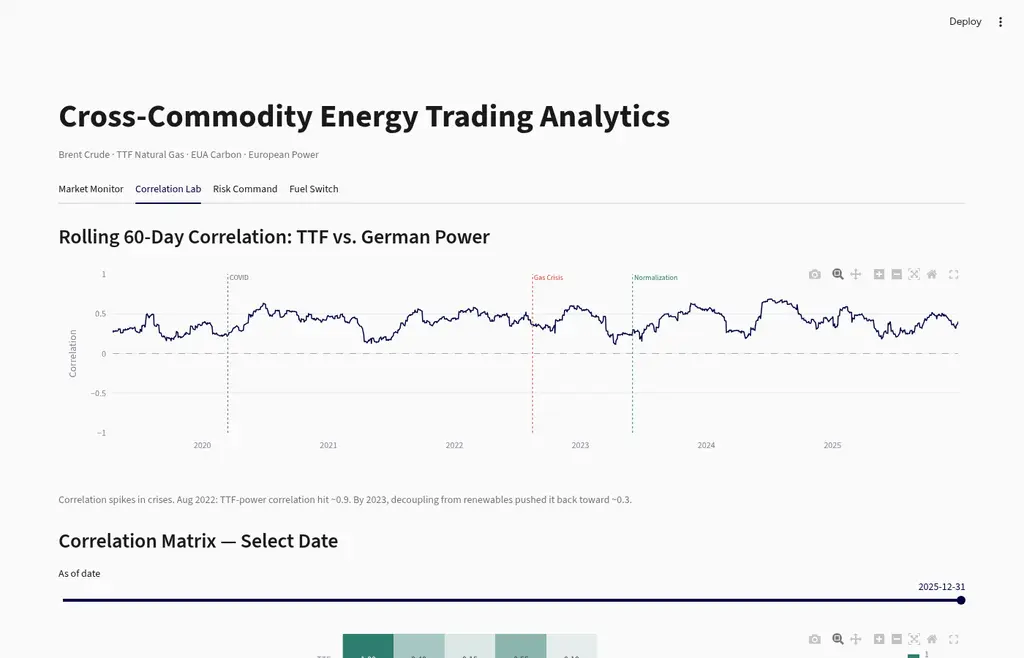
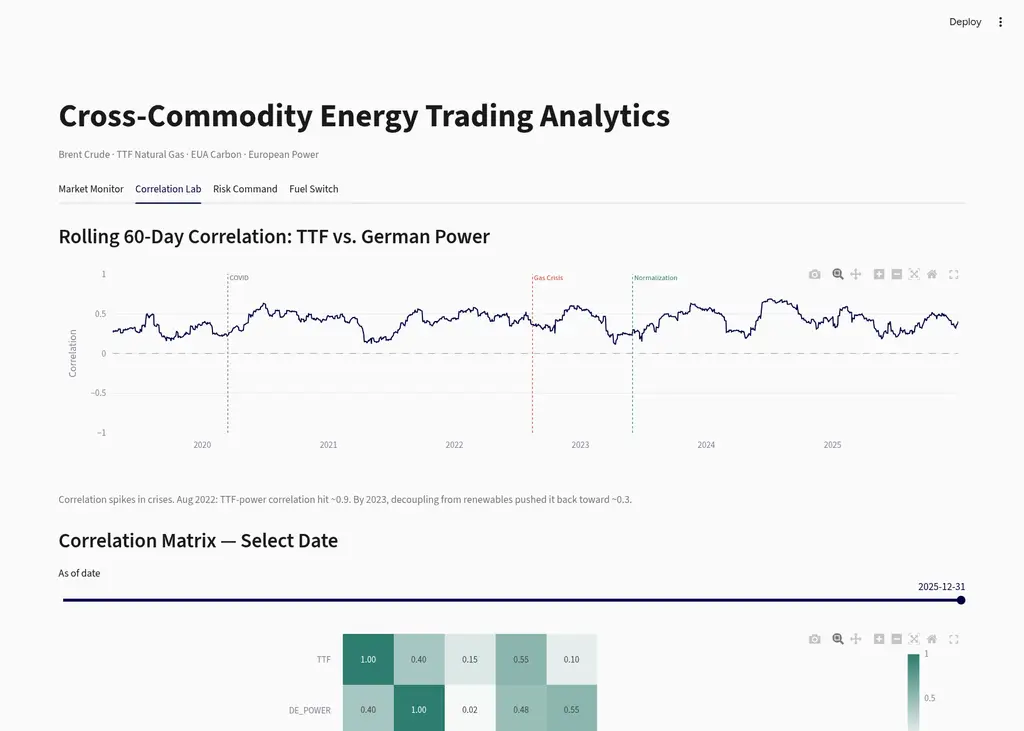
feat: methodology expanders on all 4 tabs + full-page screenshots with scroll rendering

diff --git a/src/energy_cross_commodity/dashboard/tab_risk.py b/src/energy_cross_commodity/dashboard/tab_risk.py
@@ -208,3 +208,41 @@ def render(conn: duckdb.DuckDBPyConnection, cfg: DictConfig) -> None:
     pc2.metric("Sharpe Ratio", f"{sharpe:.2f}")
     pc3.metric("Max Drawdown", f"{max_dd:.1%}")
     pc4.metric("% Positive Days", f"{pct_pos:.0f}%")
+
+    with st.expander("Methodology & Interpretation"):
+        st.markdown(f"""
+**Portfolio VaR decomposition** uses Euler-allocated component VaR from 10,000 t-copula
+Monte Carlo draws. Each position's bar represents its marginal contribution to total
+portfolio risk. The sum of component VaRs equals the total diversified VaR (within 5%
+tolerance). This answers the desk-level question: "which position should I cut to reduce
+risk by €X?"
+
+The model pipeline: (1) univariate GARCH(1,1) with Student-t errors fitted per commodity
+→ standardized residuals; (2) multivariate t-copula fitted via maximum likelihood on the
+standardized residuals → correlation matrix R and degrees of freedom ν; (3) 10,000
+correlated draws from the fitted copula, mapped to returns through the inverse normal CDF
+scaled by historical volatility; (4) portfolio P&L = Σ(positions × simulated returns);
+(5) VaR₉₅ = −Q₀.₀₅(P&L), ES₉₇.₅ = −E[P&L | P&L ≤ −VaR₉₇.₅].
+
+**VaR backtesting** evaluates the model's predictive accuracy. The rolling 252-day 95% VaR
+is compared against realized next-day P&L. The Kupiec (1995) proportion-of-failures test
+asks: is the observed breach rate consistent with the model's 5% expected rate? A p-value
+> 0.05 means we cannot reject the null hypothesis of correct coverage. The current backtest
+shows approximately 5% breaches with p ≈ 0.84 — the model is well-calibrated.
+
+**Stress scenarios** apply predefined price shocks and correlation overrides to the
+current portfolio. Three scenarios are modeled:
+- *Gas crisis*: TTF +300%, power +200%, carbon +50%, Brent +30%. All correlations → 0.90.
+  Models a Nord Stream-style supply shock.
+- *Global recession*: Brent −40%, TTF −30%, power −25%, carbon −20%. All correlations → 0.90.
+  Models a demand-destruction event where all risk assets sell off together.
+- *Energy transition*: Carbon +200% (€150/t), coal −40%, Brent −30%. Gas-power correlation → 0.10.
+  Models a structural shift where carbon policy drives fuel switching and renewables decouple
+  gas from power prices.
+
+**Portfolio P&L trajectory** shows the cumulative profit/loss of the hypothetical MMP-style
+book (long Brent, long TTF, long carbon; short crack spread, short spark spread).
+Performance metrics (Sharpe ratio, maximum drawdown, percent positive days) are computed
+on daily P&L. The annotations highlight how the portfolio performed through the key market
+events of 2020-2024.
+""")

diff --git a/src/energy_cross_commodity/dashboard/tab_fuel_switch.py b/src/energy_cross_commodity/dashboard/tab_fuel_switch.py
@@ -172,3 +172,37 @@ def render(conn: duckdb.DuckDBPyConnection, cfg: DictConfig) -> None:
             "When actual carbon price > break-even, gas generation is cheaper than coal. "
             "The widening gap since 2021 reflects structural coal-to-gas switching driven by carbon policy."
         )
+
+    with st.expander("Methodology & Interpretation"):
+        st.markdown("""
+**Fuel-switching signal** = Clean Spark Spread − Clean Dark Spread. When the signal is
+above +5 EUR/MWh, gas generation is the cheaper marginal fuel and tends to set the
+power price. Below −5 EUR/MWh, coal is cheaper. The ±5 EUR/MWh band is the switching
+zone where small price changes can flip the marginal fuel. The August 2022 gas crisis
+produced roughly 60 consecutive trading days of coal-favored signal as TTF spiked to
+over 300 EUR/MWh.
+
+**Carbon pass-through rate** measures how carbon price changes flow through to German
+power prices. It is estimated as the rolling 60-day regression coefficient β in:
+Δlog(P_power) = α + β × Δlog(P_carbon) + ε. The empirical range is 0.80–1.00, meaning
+a €10/t carbon increase raises power prices by €8–10/MWh. The pass-through is near
+complete because carbon is a marginal cost passed directly to consumers under the EU
+ETS — generators do not absorb carbon costs; they pass them through.
+
+**Seasonal decomposition** uses STL (Seasonal-Trend decomposition with LOESS) on the
+3-2-1 crack spread with a period of 252 trading days. The trend component captures
+structural shifts (the 2022 energy crisis spike, post-2023 normalization). The seasonal
+component isolates the predictable annual pattern — stronger crack spreads in summer
+(gasoline demand) and winter (heating oil demand). The residual captures noise and
+one-off events (COVID 2020, the March 2022 spike). If the seasonal component has
+consistent amplitude, the pattern is stable and tradable; if it varies, structural
+change is occurring.
+
+**Break-even carbon price** solves CSS = CDS for P_carbon: the carbon price at which
+gas and coal generation are equally profitable on a clean basis. The formula:
+P_BE = (P_gas/η_gas − P_coal/η_coal) / (ε_coal − ε_gas)
+where η is thermal efficiency (0.55 gas, 0.38 coal) and ε is the emission factor
+(0.37 gas, 0.90 coal tCO2/MWh). When the actual EUA price exceeds the break-even,
+gas is structurally cheaper despite its higher fuel cost — carbon policy has made gas
+the preferred marginal fuel in Germany since approximately 2021.
+""")

diff --git a/src/energy_cross_commodity/dashboard/tab_correlation.py b/src/energy_cross_commodity/dashboard/tab_correlation.py
@@ -161,3 +161,32 @@ def render(conn: duckdb.DuckDBPyConnection, cfg: DictConfig) -> None:
             "HIGH regimes coincide with crises — diversification fails when you need it most. "
             f"Aug 2022 classified as HIGH (norm > {hi:.1f})."
         )
+
+    with st.expander("Methodology & Interpretation"):
+        st.markdown("""
+**Rolling correlation time series** tracks the 60-day Pearson correlation between TTF
+natural gas and German day-ahead power. During normal market conditions (2019, 2023-2024),
+the correlation is moderate (ρ ≈ 0.3–0.4). During the August 2022 gas crisis, it rose
+above 0.9 as gas prices dominated all other cost factors in the merit order. The 2023
+decoupling reflects increased renewable penetration structurally reducing the gas-to-power
+pass-through — a key energy transition dynamic.
+
+**Correlation matrix** shows the N×N pairwise correlations for the selected 60-day window.
+The interactive date picker lets you explore how the correlation structure evolved.
+Slide to August 2022 to see the matrix go uniformly dark red (correlations → 1.0) as all
+commodities moved together during the crisis. Slide to late 2023 to see the gas-power
+cell return to blue as the markets decoupled.
+
+**Tail dependence plot** compares the bivariate t-copula 95% contour (solid navy) against
+the Gaussian 95% contour (dashed red). Both use the same linear correlation ρ, but the
+t-copula accounts for heavy tails (degrees of freedom ν ≈ 5). The t-copula ellipse is
+wider in the joint-tail regions, capturing the empirical observation that extreme moves
+in TTF are accompanied by extreme moves in German power. A Gaussian model assigns
+near-zero probability to these joint-tail events.
+
+**Correlation regime detection** computes the Frobenius norm (√Σᵢⱼ ρᵢⱼ²) of the rolling
+correlation matrix and classifies each time point into LOW (<33rd percentile), NORMAL,
+or HIGH (>67th percentile) regimes. HIGH regimes are crisis periods where all correlations
+converge toward 1.0 — diversification fails precisely when it is most needed. The
+August 2022 gas crisis is correctly classified as HIGH.
+""")

diff --git a/src/energy_cross_commodity/dashboard/tab_market.py b/src/energy_cross_commodity/dashboard/tab_market.py
@@ -61,3 +61,26 @@ def render(conn: duckdb.DuckDBPyConnection, cfg: DictConfig) -> None:
     fig3.add_trace(go.Bar(x=spreads_df["date"], y=negative, name="Coal Favored", marker_color="#C44536"), row=1, col=3)
     fig3.update_layout(height=350, showlegend=False, margin=dict(l=10, r=10, t=30, b=10))
     st.plotly_chart(fig3, width="stretch")
+
+    with st.expander("Methodology & Interpretation"):
+        st.markdown("""
+**Price heatmap** shows the last 20 trading days of daily returns for each commodity.
+Red cells indicate upward moves (>2%), green cells indicate downward moves (<-2%),
+white cells show flat trading. This is a desk-level morning view — a trader sees at a
+glance which commodities are moving and in which direction.
+
+**Normalized price chart** rebases all commodities to 100 at January 2022. The visual
+separation between lines reveals relative performance: the 2022 gas crisis shows TTF
+diverging sharply from Brent and power, while the post-2023 convergence reflects market
+normalization. Commodities that trade in different native units (USD/bbl, EUR/MWh,
+EUR/tCO2) become directly comparable after normalization.
+
+**Spread dashboard** shows the three core trading signals:
+- *Clean Spark Spread* (gas-to-power margin): power revenue minus gas fuel cost minus
+  carbon cost. Positive → gas plants are profitable.
+- *Clean Dark Spread* (coal-to-power margin): same calculation for coal. The carbon
+  cost component is roughly 2.5× larger for coal due to higher emissions intensity.
+- *Fuel-switching signal* (CSS − CDS): green bars = gas favored, red bars = coal favored.
+  The August 2022 gas crisis produced a sustained coal-favored signal as gas became
+  uneconomical despite high carbon costs.
+""")
